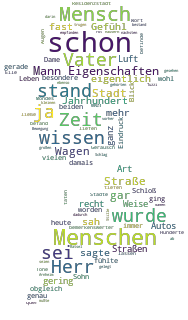
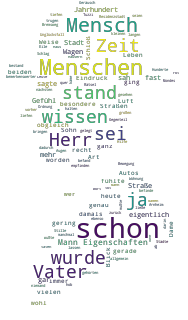
more detailed metainfo

Changed region(s): [[0.0266, 0.0, 0.9574, 0.5312], [0.133, 0.5, 0.984, 0.9688], [0.3191, 0.5938, 0.3989, 0.6562]]

diff --git a/Wordcloud/wordcloud_diff_texts.py b/Wordcloud/wordcloud_diff_texts.py
@@ -2,7 +2,7 @@
 """
 Created on Wed Apr  3 08:34:12 2019
 
-@author: Anna
+@author: Anna Pacher, Patrick Plum, Kathrin Spendier
 """
 
 # importing the necessery modules 
@@ -31,9 +31,9 @@ stopwords = stopwords.words('german')
 # file object is created 
 # here it can be chosen which text should be displayed
 
-#file_ob = open(path.join(root_path, 'musil.txt'), encoding='utf-8') 
+file_ob = open(path.join(root_path, 'musil.txt'), encoding='utf-8') 
 #file_ob = open(path.join(root_path, '99Luftbalons.txt'), encoding='utf-8') 
-file_ob = open(path.join(root_path, 'gedicht.txt'), encoding='utf-8') 
+#file_ob = open(path.join(root_path, 'gedicht.txt'), encoding='utf-8') 
 
 
 # 1. text: Chapter one and two of Musil's book "Der Mann ohne Eigenschaften" taken form http://musilonline.at/musiltext/
@@ -65,9 +65,9 @@ for row in reader_contents :
  
     
 # Mask
-#man_pic = np.array(Image.open(path.join(root_path, "manwithhat.jpg")))
+man_pic = np.array(Image.open(path.join(root_path, "manwithhat.jpg")))
 #balloon = np.array(Image.open('balloon.jpeg'))
-star = np.array(Image.open(path.join(root_path, "star.jpeg")))
+#star = np.array(Image.open(path.join(root_path, "star.jpeg")))
 
  
 
@@ -76,9 +76,9 @@ star = np.array(Image.open(path.join(root_path, "star.jpeg")))
 # remove stopwords from WordCloud,  show  200 words in the wordcloud . 
 wordcloud = WordCloud(width=480, height=480, max_words=200,
             stopwords=stopwords,
-            #mask= man_pic,
+            mask= man_pic,
             #mask = balloon,
-            mask= star,
+            #mask= star,
            mode='RGBA',background_color=None ).generate(text) 
   
 # plot the WordCloud image  
@@ -89,16 +89,16 @@ plt.margins(x=0, y=0)
 plt.show() 
 
 # store to file
-#wordcloud.to_file("musil_words.png")
+wordcloud.to_file("musil_words.png")
 #wordcloud.to_file("99luftballons.png")
-wordcloud.to_file("poem.png")
+#wordcloud.to_file("poem.png")
 
 #########################################
 wordcloud = WordCloud(width=480, height=480,
                       stopwords=stopwords,
-                      #mask= man_pic,
+                      mask= man_pic,
                       #mask = balloon,
-                      mask= star,
+                      #mask= star,
                       background_color="violet").generate(text) 
   
 # plot the WordCloud image  
